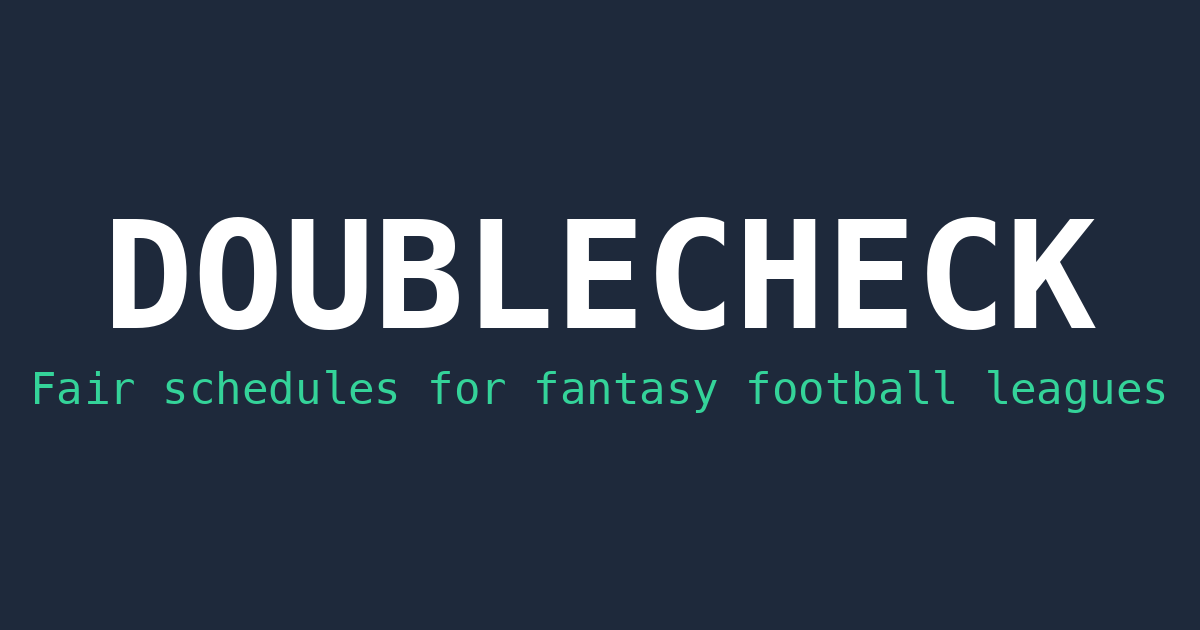
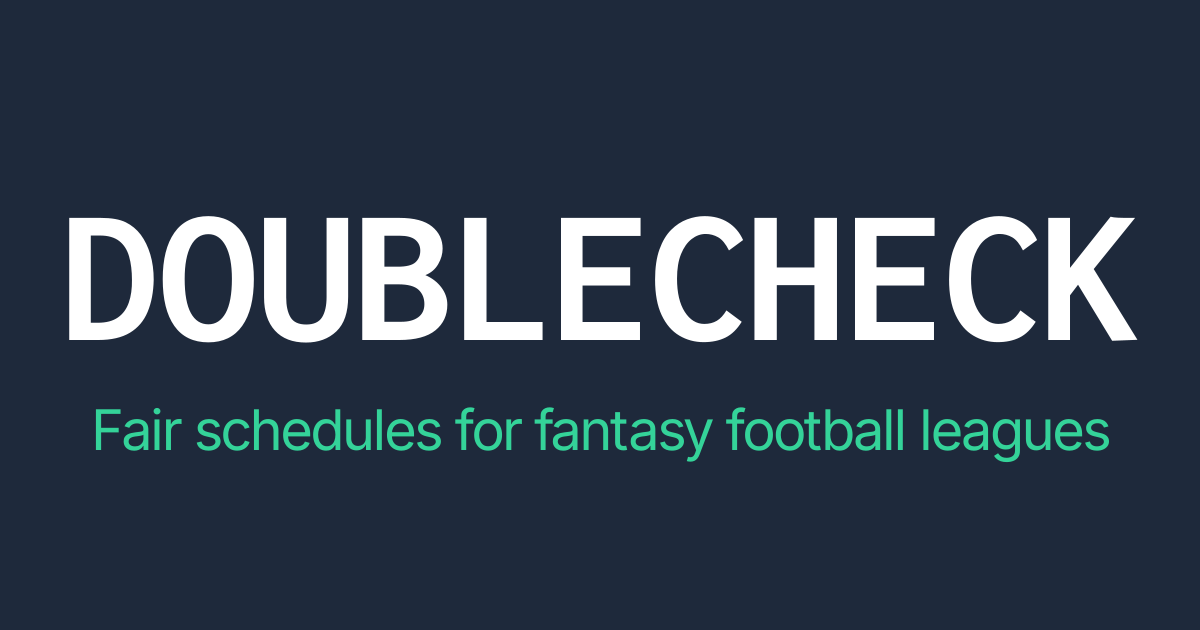
chore(og): Regenerate og.png with new fonts
Inconsolata Bold title in white, Inter subtitle in emerald,
matching the original layout on a 1200x630 dark-slate canvas.

Changed region(s): [[0.0308, 0.3317, 0.9558, 0.5429], [0.0308, 0.573, 0.9867, 0.754]]

diff --git a/ROADMAP.md b/ROADMAP.md
@@ -233,7 +233,7 @@ Refactored `app/page.tsx` from a single 3,153-line client component into a modul
 
 **Tool:** Claude Code
 
-Swapped the all-mono JetBrains Mono stack for a paired Inter + Inconsolata stack served through `next/font/google`. Inter (proportional sans) becomes the default body font for prose, buttons, labels, headings, manager names, and `<select>` controls; Inconsolata (the matching monospace family from the same designer) is reserved for content that needs fixed-width alignment - matrix cells (column headers, row headers, clickable toggles, diagonal spacers, CT count row across both the avoidance matrix and the Add Past Season matrix), the week navigator buttons in Step 3 and the shared schedule view, the Copy Full Schedule textarea, the league ID input, the share link input on Step 1, and the share URL input that appears after Save & Share. Inter is mounted via `inter.className` on `<body>` so it cascades as the default font; both fonts are also exposed as CSS variables (`--font-sans`, `--font-mono`) and registered in `tailwind.config.ts` so the `font-sans` and `font-mono` utility classes resolve to the new families. The pre-existing hardcoded `font-family` declaration in `globals.css` (JetBrains Mono / SF Mono / Fira Code) was deleted, and every `font-mono` class on outer wrappers (`app/page.tsx`, `app/error.tsx`, `app/not-found.tsx`, `app/s/[slug]/page.tsx`, `app/s/[slug]/error.tsx`) was removed so children inherit Inter by default. The shared `cls.leagueInput`, `cls.teamInput`, and `cls.navBtn` Tailwind atoms in `styles.ts` had `font-mono` stripped; consumers that should remain mono (league ID input, share link input) re-add it explicitly while consumers that should inherit Inter (Sleeper/Yahoo league pickers, manual league name input, navigation buttons, team name inputs) simply pick up the new default. No font sizes, cell widths, padding, or the `abbrev()` truncation cutoff changed - Inconsolata is metrically similar enough to JetBrains Mono that every `text-[Npx]` class and fixed cell width stays correct. Reasoning: legibility at small sizes on mobile (82% of traffic is mobile, and team names in the matrix sit at 8px), and the shared schedule page conversion case where viewers should be able to skim manager names and instructions in a proportional font without losing the grid alignment in the week navigator or copy block. `og.png` and `screenshot.png` still need recapturing under the new font stack before the next social-image refresh.
+Swapped the all-mono JetBrains Mono stack for a paired Inter + Inconsolata stack served through `next/font/google`. Inter (proportional sans) becomes the default body font for prose, buttons, labels, headings, manager names, and `<select>` controls; Inconsolata (the matching monospace family from the same designer) is reserved for content that needs fixed-width alignment - matrix cells (column headers, row headers, clickable toggles, diagonal spacers, CT count row across both the avoidance matrix and the Add Past Season matrix), the week navigator buttons in Step 3 and the shared schedule view, the Copy Full Schedule textarea, the league ID input, the share link input on Step 1, and the share URL input that appears after Save & Share. Inter is mounted via `inter.className` on `<body>` so it cascades as the default font; both fonts are also exposed as CSS variables (`--font-sans`, `--font-mono`) and registered in `tailwind.config.ts` so the `font-sans` and `font-mono` utility classes resolve to the new families. The pre-existing hardcoded `font-family` declaration in `globals.css` (JetBrains Mono / SF Mono / Fira Code) was deleted, and every `font-mono` class on outer wrappers (`app/page.tsx`, `app/error.tsx`, `app/not-found.tsx`, `app/s/[slug]/page.tsx`, `app/s/[slug]/error.tsx`) was removed so children inherit Inter by default. The shared `cls.leagueInput`, `cls.teamInput`, and `cls.navBtn` Tailwind atoms in `styles.ts` had `font-mono` stripped; consumers that should remain mono (league ID input, share link input) re-add it explicitly while consumers that should inherit Inter (Sleeper/Yahoo league pickers, manual league name input, navigation buttons, team name inputs) simply pick up the new default. No font sizes, cell widths, padding, or the `abbrev()` truncation cutoff changed - Inconsolata is metrically similar enough to JetBrains Mono that every `text-[Npx]` class and fixed cell width stays correct. `public/og.png` was regenerated under the new stack (Inconsolata Bold title in white, Inter subtitle in emerald `#34d399`) using `node-canvas` with the TTF files pulled directly from `raw.githubusercontent.com/rsms/inter` and `raw.githubusercontent.com/googlefonts/Inconsolata`; `screenshot.png` was recaptured under the new fonts as well. Reasoning: legibility at small sizes on mobile (82% of traffic is mobile, and team names in the matrix sit at 8px), and the shared schedule page conversion case where viewers should be able to skim manager names and instructions in a proportional font without losing the grid alignment in the week navigator or copy block.
 
 **Deliverable:** Inter for body/UI text, Inconsolata for matrix cells and tabular elements, served through `next/font/google` with CSS variables wired into Tailwind. All 188 tests pass and the production build succeeds.
 
@@ -267,7 +267,7 @@ Phases 1-14 are complete. Phase 9 Wave 2 (late July/August 2026 Reddit redraft-s
 - **Phase 11 - UI polish.** Alphabetical manager-name sorting at import time and in every display-only context (numeric-aware `localeCompare` throughout, with team indices remapped consistently). Consolidated import preview box replacing the redundant fetch-success line. Control-first lookback layout with a conditional "Recommended" reference shown only on deviation. Deterministic home/away matchup display assignment (greedy post-pass producing 7/7 or 7/8 left appearances per team), persisted in share payloads via `displayWeeks`. Copy button on the schedule textarea, schedule year pinned to the current calendar year, Save & Share dedup, share rate limit bumped 5 -> 15/hr, simplified reimport (fresh data always wins), Back on Step 1 returns to the import view, right-primary button convention, share link bookmark hint shown for every platform. Shared schedule pages enriched with platform-specific apply instructions and the Copy Full Schedule section; Managers section removed. Avoidance matrix filled to a full grid with symmetric click toggling, darkened diagonals, and hover-crosshair highlighting gated to `(hover: hover)` devices; Add Past Season matrix uses a neutral-slate CT row. Avoidance by Team section hides when empty; hard-avoid and soft-avoid legend entries each hide when their lookback window is zero; Add Past Season pair count removed in favor of the CT row. Sweep of copy and label tweaks ("Double & Rival Matchups", "Clear Manual Avoids", "Generate Your Own ->", "Import Your League", title-cased error/not-found/expired headings, "Restore from link" dropdown label, mobile-constrained Pin button).
 - **Phase 12 - Share link restore.** "Restore from link" option in the import dropdown lets returning users paste a share URL to bring a previously-shared league back into a fresh browser. New GET `/api/share/[slug]` route reads the payload from Upstash Redis (rate-limited at 30/hr per IP, namespaced separately from share creation, 404 on missing/expired). The client uses the same Fetch -> preview -> Apply -> Step 1 flow as platform imports. Apply hydrates format/teams/userIds/leagueName/history/rivalryPins (sorted alphabetically with index remapping; manualDoubles are intentionally dropped as one-time per-season overrides) and skips the stale schedule so the user regenerates fresh. `rivalryPins` added to the share payload so commissioner pin configurations survive the round-trip. Backward-compatible with pre-Phase-12 share links. Buy Me a Coffee Sponsor link wired into `.github/FUNDING.yml`.
 - **Phase 13 - Component refactor.** `app/page.tsx` split from one 3,153-line client component into a modular tree under `app/components/`: `constants.ts`, `types.ts`, `utils.ts`, `styles.ts`, `state.ts` (single `useReducer` with a `patch` action), `StepImport.tsx` (Step 1 + all import handlers, plus the OAuth-callback `pendingYahooConnect` bridge), `StepReview.tsx` (Step 2 matrix, past-season editor, `RivalryPinBuilder` subcomponent), and `StepSchedule.tsx` (Step 3 viewer + share/copy flows). `page.tsx` is now 525 lines containing only shared state, derived values, step navigation, back/reset buttons, footer, tooltip, hydration/OAuth effects, `saveToStorage`, and `handleGenerate` (passed as `onGenerate` to both StepReview and StepSchedule). No behavior or UI changes; all 188 tests pass and production build succeeds.
-- **Phase 14 - Font stack.** Swapped JetBrains Mono everywhere for Inter (proportional, body/UI) + Inconsolata (mono, fixed-width content) via `next/font/google`. Inter cascades as the default `<body>` font through `inter.className`; both fonts are also exposed as CSS variables (`--font-sans`, `--font-mono`) and wired into `tailwind.config.ts` so the `font-sans` and `font-mono` utility classes resolve correctly. Mono is retained only where alignment matters: matrix cells in both Step 2 matrices (column headers, row headers, clickable toggles, diagonal spacers, CT count row), the week navigator buttons in Step 3 and the shared schedule view, the Copy Full Schedule textarea, and the league ID / share-link / share-URL inputs. Everything else (manager names, `<select>` controls, navigation buttons, prose) inherits Inter. No font sizes, cell widths, padding, or `abbrev()` cutoffs changed; Inconsolata is metrically close enough to JetBrains Mono that the existing fixed dimensions stay accurate. Reasoning: better legibility at small sizes on mobile (82% of traffic) and a friendlier feel on the shared schedule page that recipients see without the rest of the app's controls. `og.png` and `screenshot.png` still need recapturing under the new fonts.
+- **Phase 14 - Font stack.** Swapped JetBrains Mono everywhere for Inter (proportional, body/UI) + Inconsolata (mono, fixed-width content) via `next/font/google`. Inter cascades as the default `<body>` font through `inter.className`; both fonts are also exposed as CSS variables (`--font-sans`, `--font-mono`) and wired into `tailwind.config.ts` so the `font-sans` and `font-mono` utility classes resolve correctly. Mono is retained only where alignment matters: matrix cells in both Step 2 matrices (column headers, row headers, clickable toggles, diagonal spacers, CT count row), the week navigator buttons in Step 3 and the shared schedule view, the Copy Full Schedule textarea, and the league ID / share-link / share-URL inputs. Everything else (manager names, `<select>` controls, navigation buttons, prose) inherits Inter. No font sizes, cell widths, padding, or `abbrev()` cutoffs changed; Inconsolata is metrically close enough to JetBrains Mono that the existing fixed dimensions stay accurate. `public/og.png` was regenerated under the new stack (Inconsolata Bold title in white, Inter subtitle in emerald) using `node-canvas` with TTFs pulled from `raw.githubusercontent.com/rsms/inter` and `raw.githubusercontent.com/googlefonts/Inconsolata`; `screenshot.png` was recaptured under the new fonts as well. Reasoning: better legibility at small sizes on mobile (82% of traffic) and a friendlier feel on the shared schedule page that recipients see without the rest of the app's controls.
 
 ### Production fixes
 
